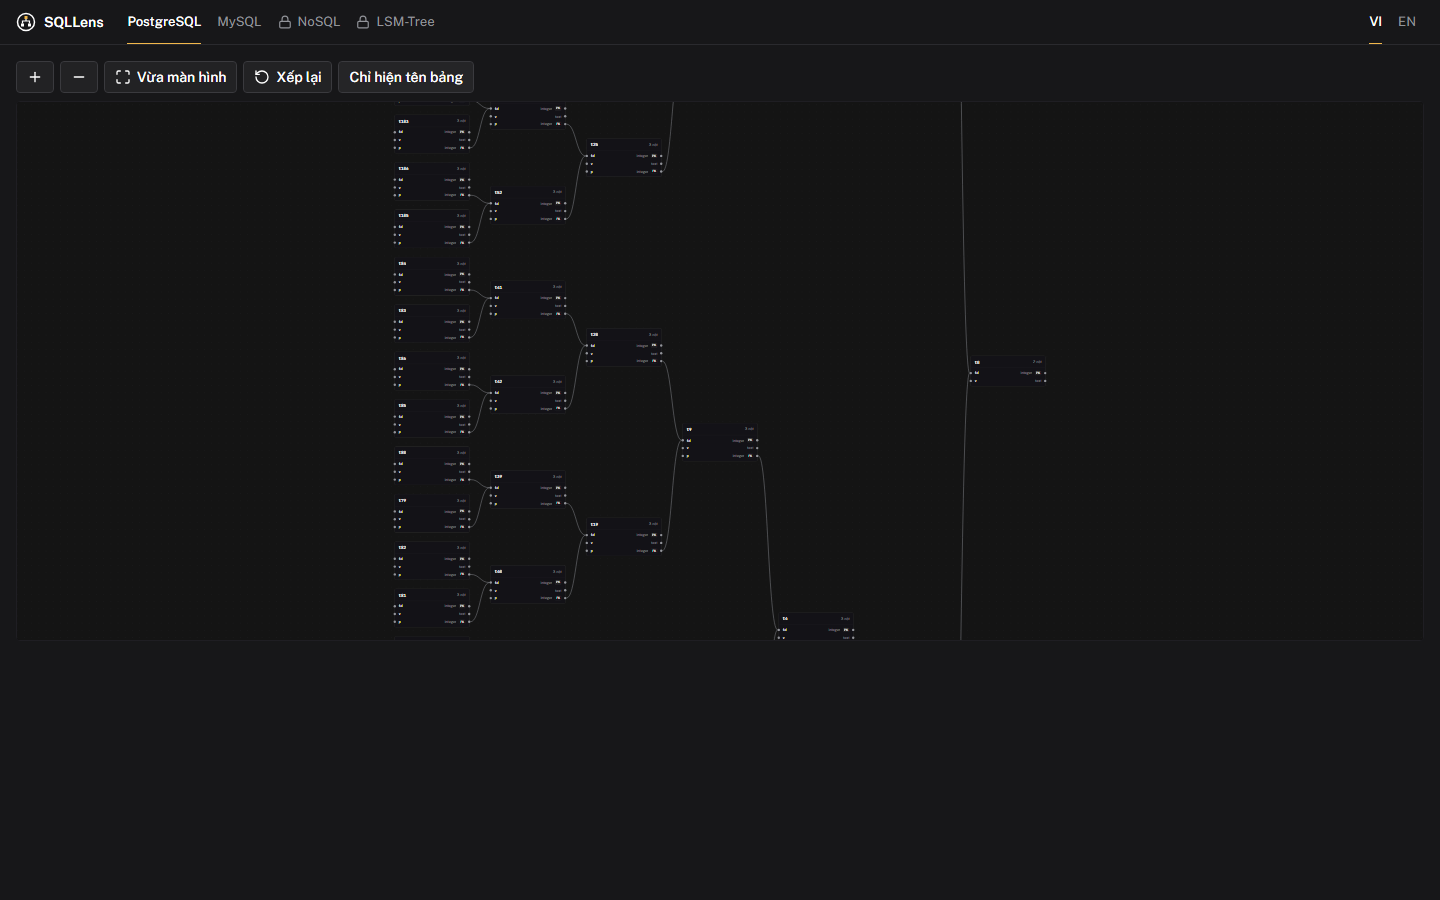
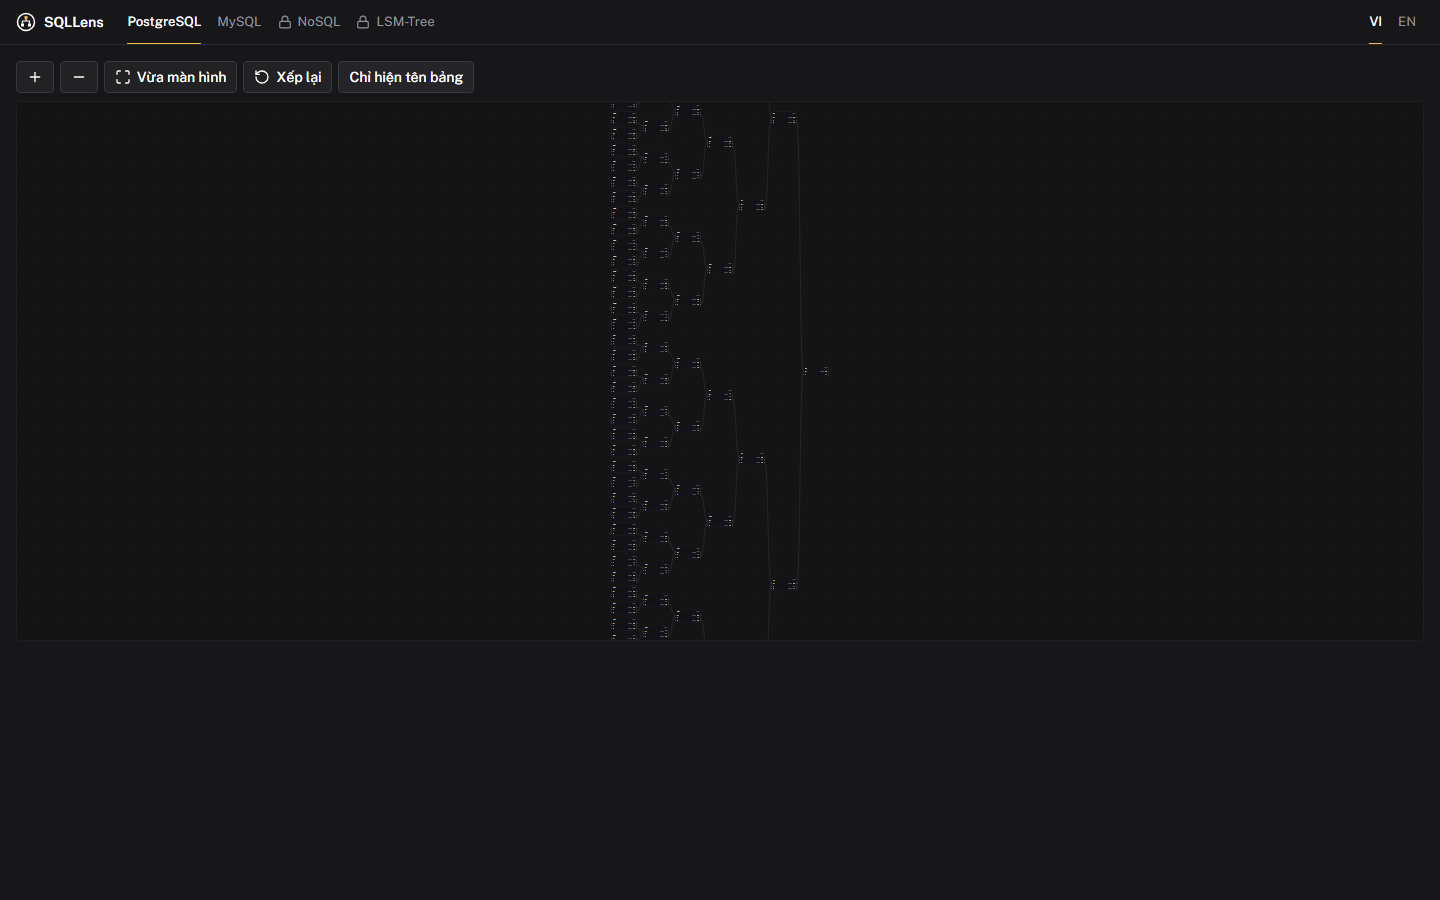
fix(Task047): vừa màn hình vừa cả sơ đồ trên 30 bảng, tách thẻ chồng cho mọi thẻ

diff --git a/web/src/modules/plan-runner/schema-diagram/schema-diagram-impl.tsx b/web/src/modules/plan-runner/schema-diagram/schema-diagram-impl.tsx
@@ -47,7 +47,7 @@ function Inner({ tables }: { tables: TableInfo[] }) {
         const k = tableKey(tb);
         const wanted = saved[k] ?? auto[k];
         // vị trí đã lưu có thể chồng khi bảng đổi chiều cao (gọn/đủ cột): đẩy ra trước khi hiện
-        const position = saved[k] ? separate(rectOf(k, wanted), placed) : wanted;
+        const position = separate(rectOf(k, wanted), placed);
         placed.push(rectOf(k, position));
         return {
           id: k, type: "table", position, draggable: true,
@@ -147,7 +147,7 @@ function Inner({ tables }: { tables: TableInfo[] }) {
               setDragging(null);
               settle(n.id, n.position);
             }}
-            minZoom={0.3}
+            minZoom={many ? 0.1 : 0.3}
             maxZoom={1.6}
             nodesConnectable={false}
             edgesFocusable={false}
